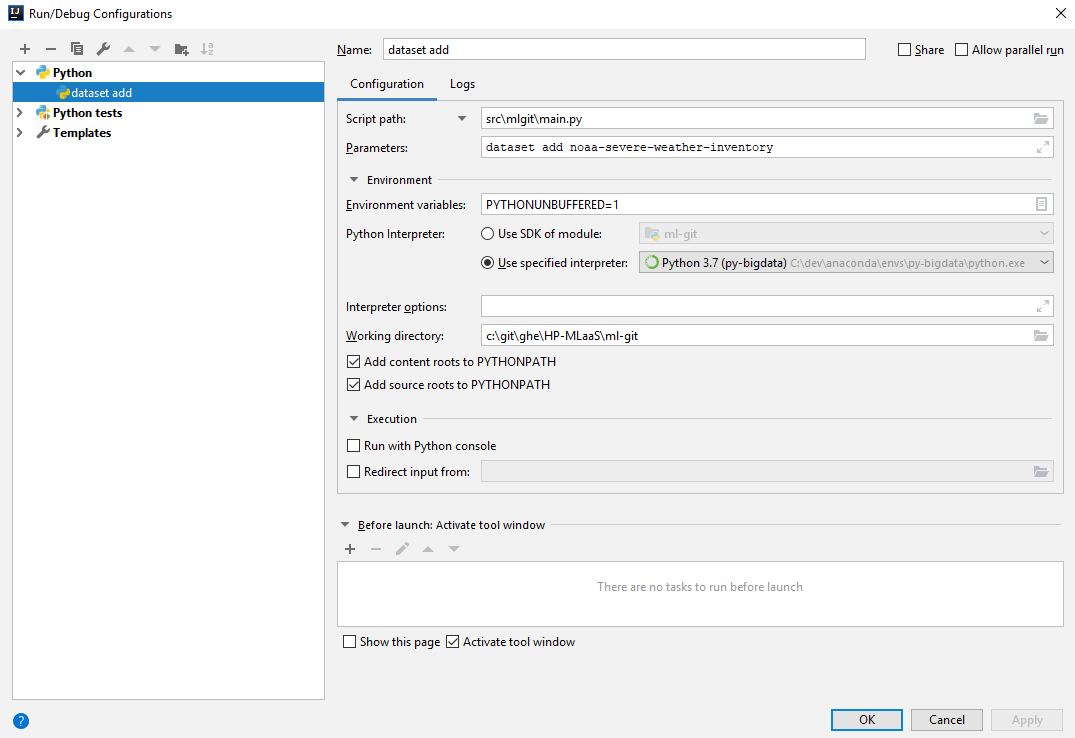
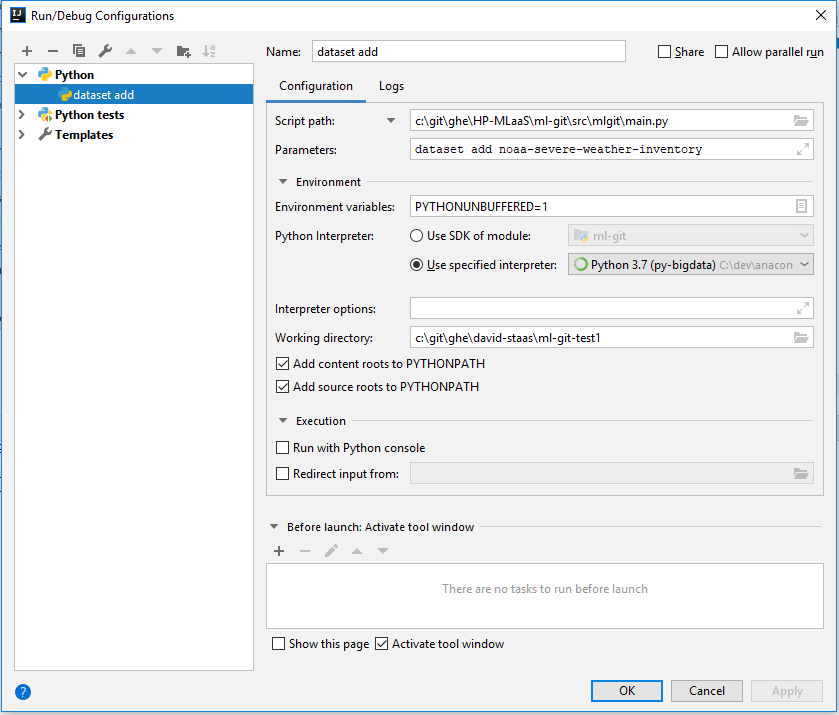
Adding capability to debug via IDE + documentation (updating).

diff --git a/src/mlgit/main.py b/src/mlgit/main.py
@@ -56,7 +56,7 @@ def repository_entity_cmd(config, args):
 	spec = args["<ml-entity-name>"]
 	if args["add"] == True:
 		bumpversion = False
-		if args["--bumpversion"] is not None and args["--bumpversion"] is True:
+		if args["--bumpversion"] is True:
 			bumpversion = True
 		r.add(spec, bumpversion)
 	if args["commit"] == True:

diff --git a/docs/developer_info.md b/docs/developer_info.md
@@ -105,3 +105,5 @@ Set up a Run Configuration that looks like this:
 ![intellij_run_config.png](intellij_run_config.png)
 
 Replace 'Parameters' with the command you want to debug.  Replace the working directory as appropriate for your system.
+Notice that the script directory points to the ml-git repo, while the working
+directory points to the ML repo you want to test with.
